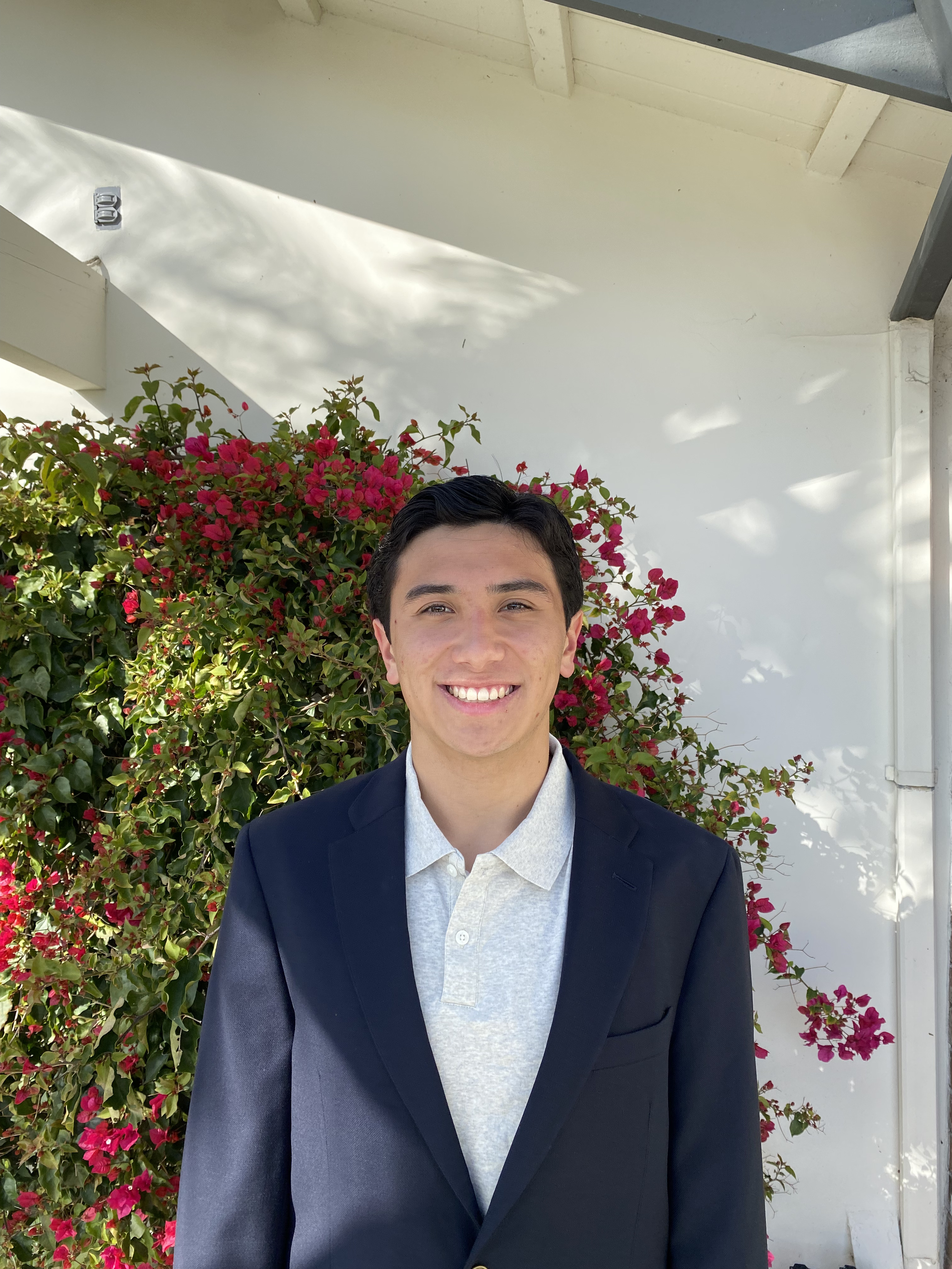
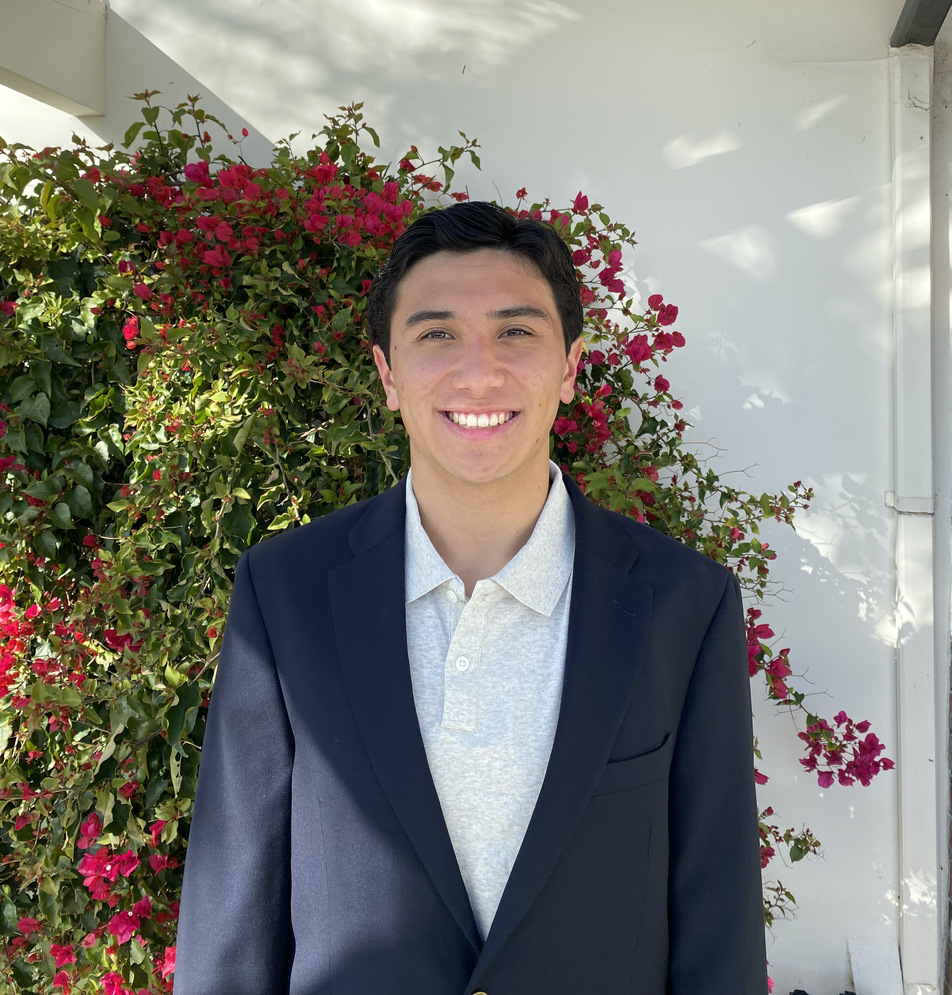
fixed home slideshow

diff --git a/index.html b/index.html
@@ -62,11 +62,11 @@
                         <span class="dot" onclick="currentSlide(1)"></span>
                         <span class="dot" onclick="currentSlide(2)"></span>
                     </div>
-                    <div class="my-slides fade"> <!-- full-width images with number and caption text -->
-                        <img src="./assets/slideshow_images/phillip_long_headshot.jpg" style="width:100%" alt="Hello">
+                    <div class="slide fade"> <!-- full-width images with number and caption text -->
+                        <img src="./assets/slideshow_images/phillip_long_headshot.jpg" alt="Hello" class="slide-image">
                     </div>
-                    <div class="my-slides fade">
-                        <img src="./assets/slideshow_images/trumpet.jpg" style="width:100%" alt="Playing the Trumpet">
+                    <div class="slide fade">
+                        <img src="./assets/slideshow_images/trumpet.jpg" alt="Playing the Trumpet" class="slide-image">
                     </div>
                     <a id="prev" onclick="plusSlides(-1)">&#10094;</a> <!-- next and previous buttons -->
                     <a id="next" onclick="plusSlides(1)">&#10095;</a>

diff --git a/style.css b/style.css
@@ -217,6 +217,7 @@
 #slideshow-container {
     position: relative;
     width: 48%;
+    aspect-ratio: 7 / 10; /* width / height */
     float: right;
     margin-top: 10px;
 }
@@ -318,8 +319,16 @@ p {
 
 /* SLIDESHOW IMAGE (slideshow-container in previous section) */
 /**************************************************************************/
-.my-slides { /* Hide the images by default */
+.slide { /* Hide the images by default */
     display: none;
+}
+
+.slide-image {
+    position: absolute;
+    width: 100%;
+    height: 100%;
+    object-fit: cover;
+    object-position: center;
 }
 
 /* Next & previous buttons */

diff --git a/app.js b/app.js
@@ -26,7 +26,7 @@ function currentSlide(n) {
 
 function showSlides(n) {
   let i;
-  let slides = document.getElementsByClassName("my-slides");
+  let slides = document.getElementsByClassName("slide");
   let dots = document.getElementsByClassName("dot");
   if (n > slides.length) {slideIndex = 1}
   if (n < 1) {slideIndex = slides.length}
